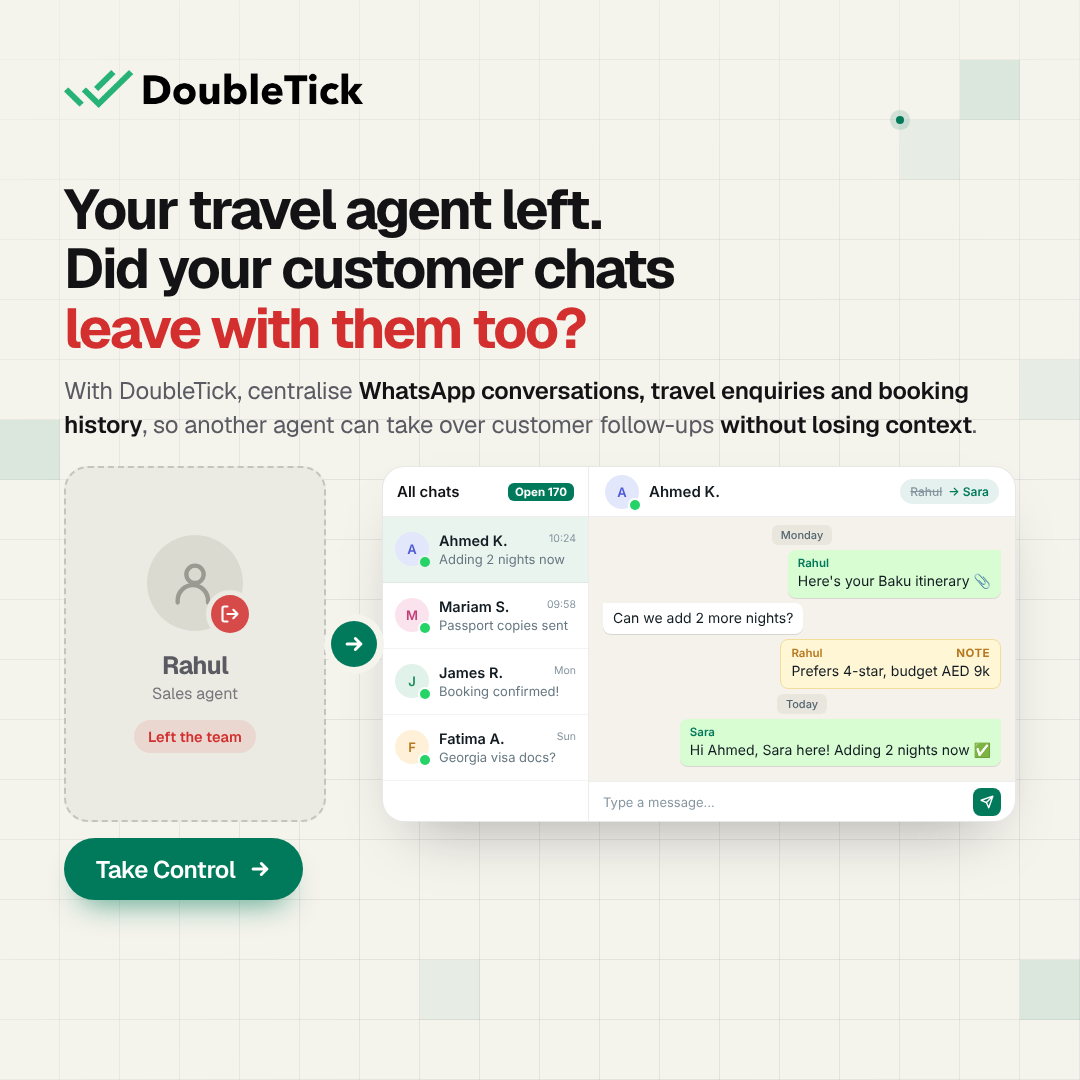
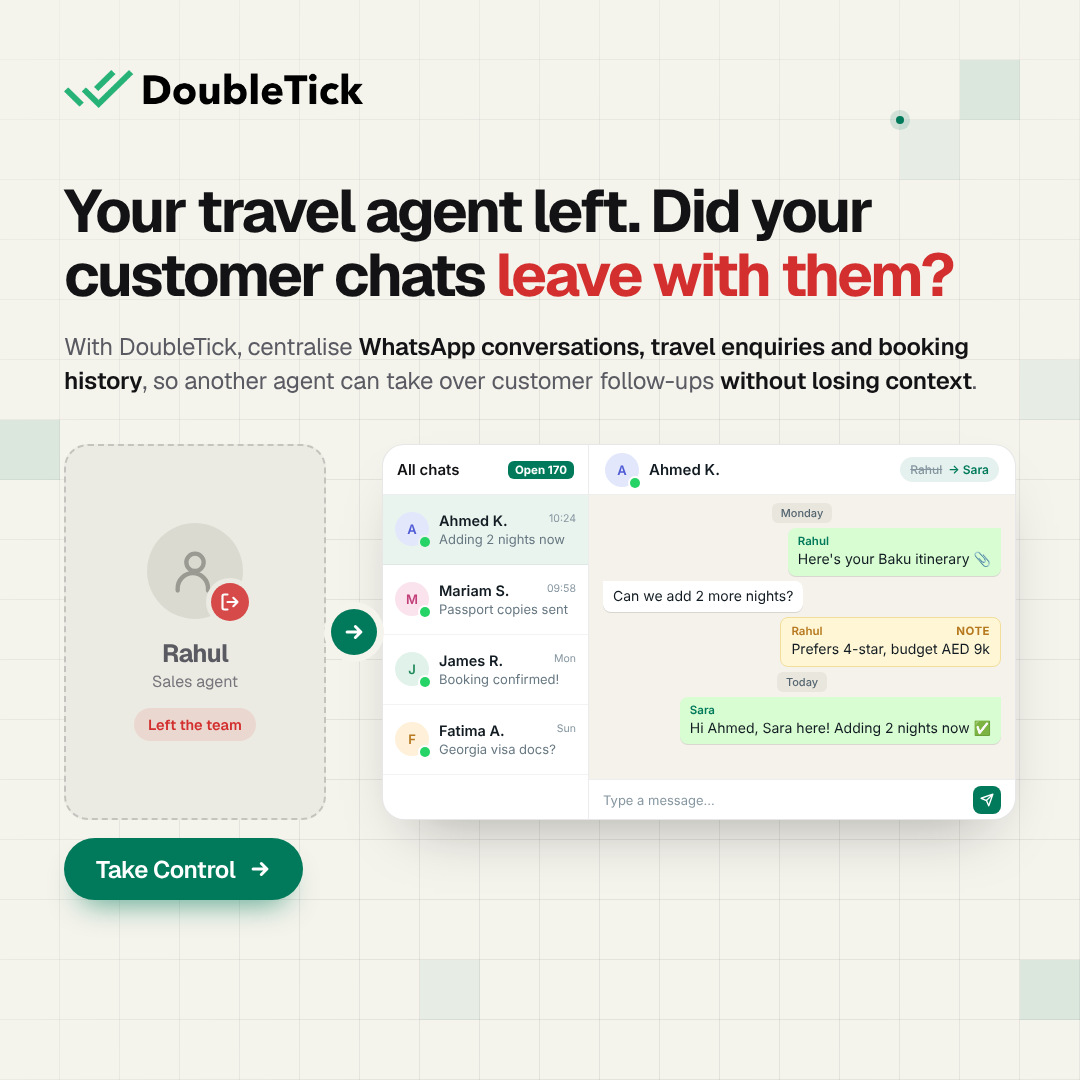
fix: two-line hook 'leave with them?' in agent-leaves ad
Claude-Session: https://claude.ai/code/session_01U68wzeZAut9FRgfZMxNXRM

diff --git a/ads/doubletick-agent-leaves/index.html b/ads/doubletick-agent-leaves/index.html
@@ -41,13 +41,13 @@
   .logo { position: absolute; top: 70px; left: 64px; height: 38px; }
 
   /* ---------- copy ---------- */
-  .headline { position: absolute; top: 180px; left: 64px; width: 960px; font-weight: 700; font-size: 56px; line-height: 1.06; letter-spacing: -0.045em; color: var(--ink); }
+  .headline { position: absolute; top: 180px; left: 64px; width: 960px; font-weight: 700; font-size: 60px; line-height: 1.06; letter-spacing: -0.045em; color: var(--ink); }
   .headline .hl { color: #D32F2F; }
-  .sub { position: absolute; top: 374px; left: 64px; width: 952px; font-size: 24px; line-height: 1.4; color: var(--ink-2); letter-spacing: -0.01em; }
+  .sub { position: absolute; top: 330px; left: 64px; width: 952px; font-size: 24px; line-height: 1.4; color: var(--ink-2); letter-spacing: -0.01em; }
   .sub b { color: var(--ink); font-weight: 600; }
 
   /* ---------- departing agent ---------- */
-  .agent { position: absolute; left: 64px; top: 466px; width: 262px; height: 356px; border-radius: 24px; background: #ECEBE3; border: 2px dashed rgba(19,19,22,0.18); display: flex; flex-direction: column; align-items: center; justify-content: center; text-align: center; }
+  .agent { position: absolute; left: 64px; top: 444px; width: 262px; height: 376px; border-radius: 24px; background: #ECEBE3; border: 2px dashed rgba(19,19,22,0.18); display: flex; flex-direction: column; align-items: center; justify-content: center; text-align: center; }
   .avatar { position: relative; width: 96px; height: 96px; border-radius: 50%; background: #D9D8CF; display: grid; place-items: center; opacity: 0.85; }
   .exit { position: absolute; right: -6px; bottom: -2px; width: 38px; height: 38px; border-radius: 50%; background: #D32F2F; display: grid; place-items: center; box-shadow: 0 0 0 5px #ECEBE3; }
   .agent .nm { margin-top: 18px; font-weight: 700; font-size: 25px; letter-spacing: -0.03em; color: var(--ink-2); }
@@ -55,14 +55,14 @@
   .left-chip { margin-top: 16px; font-size: 14.5px; font-weight: 600; color: #D32F2F; background: rgba(211,47,47,0.10); padding: 7px 14px; border-radius: 999px; }
 
   /* ---------- arrow ---------- */
-  .arrow { position: absolute; left: 331px; top: 621px; width: 46px; height: 46px; border-radius: 50%; background: var(--green); display: grid; place-items: center; box-shadow: 0 0 0 7px var(--bg); z-index: 2; }
+  .arrow { position: absolute; left: 331px; top: 609px; width: 46px; height: 46px; border-radius: 50%; background: var(--green); display: grid; place-items: center; box-shadow: 0 0 0 7px var(--bg); z-index: 2; }
 
   /* ---------- DoubleTick inbox (simplified) ---------- */
-  .inbox { position: absolute; left: 382px; top: 466px; width: 634px; height: 356px; border-radius: 22px; background: var(--card); border: 1.5px solid rgba(19,19,22,0.10); overflow: hidden; display: flex; box-shadow: 0 30px 60px -30px rgba(19,19,22,0.35); font-family: "Inter", "Segoe UI", Helvetica, Arial, sans-serif; }
+  .inbox { position: absolute; left: 382px; top: 444px; width: 634px; height: 376px; border-radius: 22px; background: var(--card); border: 1.5px solid rgba(19,19,22,0.10); overflow: hidden; display: flex; box-shadow: 0 30px 60px -30px rgba(19,19,22,0.35); font-family: "Inter", "Segoe UI", Helvetica, Arial, sans-serif; }
   .list { width: 206px; flex: none; border-right: 1px solid rgba(19,19,22,0.08); }
   .list-head { height: 50px; display: flex; align-items: center; justify-content: space-between; padding: 0 14px; font-weight: 600; font-size: 15px; border-bottom: 1px solid rgba(19,19,22,0.07); }
   .count { font-size: 11.5px; font-weight: 700; color: #fff; background: var(--green); padding: 2px 7px; border-radius: 6px; }
-  .row { display: flex; gap: 10px; padding: 15px 12px; border-bottom: 1px solid rgba(19,19,22,0.05); }
+  .row { display: flex; gap: 10px; padding: 17px 12px; border-bottom: 1px solid rgba(19,19,22,0.05); }
   .row.on { background: #EAF4EF; }
   .av { position: relative; flex: none; width: 34px; height: 34px; border-radius: 50%; display: grid; place-items: center; font-weight: 600; font-size: 13px; }
   .av::after { content: ""; position: absolute; right: -1px; bottom: -1px; width: 10px; height: 10px; border-radius: 50%; background: #25D366; box-shadow: 0 0 0 2px #fff; }
@@ -111,7 +111,7 @@
   <img class="logo" src="doubletick-logo.webp" alt="DoubleTick" />
 
   <!-- copy -->
-  <h1 class="headline">Your travel agent left.<br/>Did your customer chats<br/><span class="hl">leave with them too?</span></h1>
+  <h1 class="headline">Your travel agent left. Did your<br/>customer chats <span class="hl">leave with them?</span></h1>
   <p class="sub">With DoubleTick, centralise <b>WhatsApp conversations, travel enquiries and booking history</b>, so another agent can take over customer follow-ups <b>without losing context</b>.</p>
 
   <!-- departing agent -->
